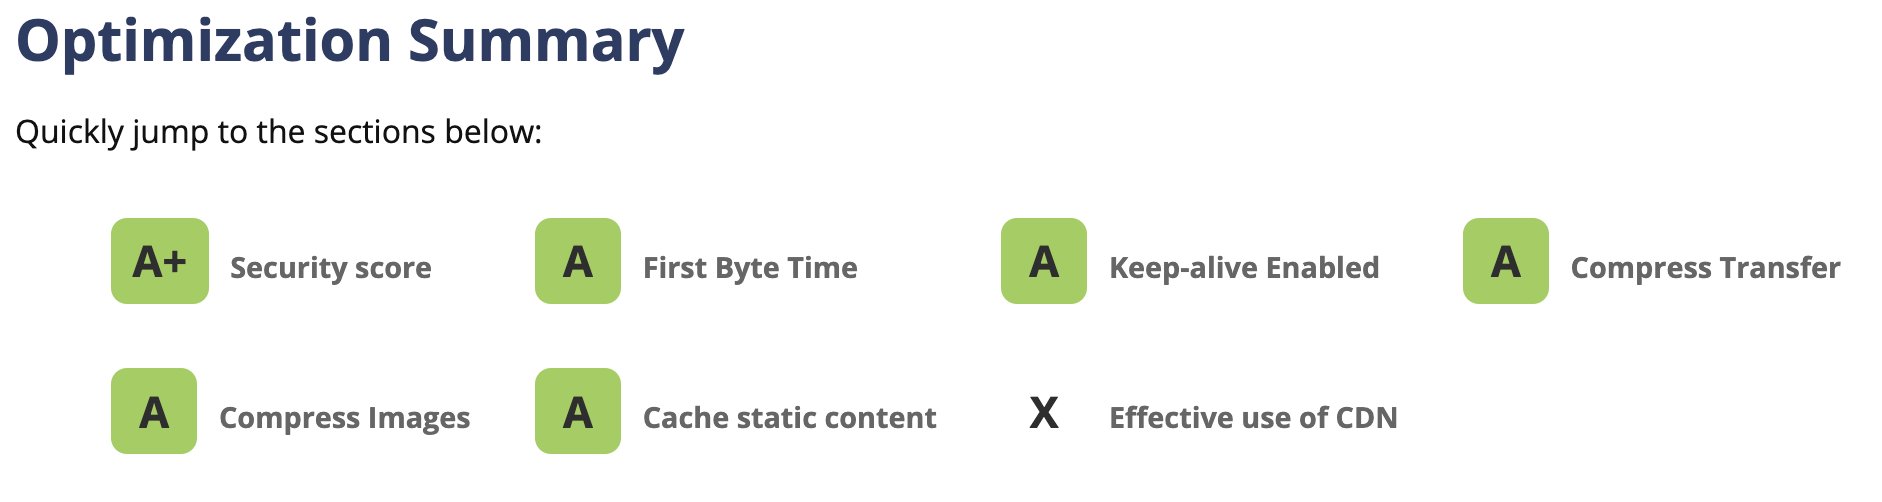
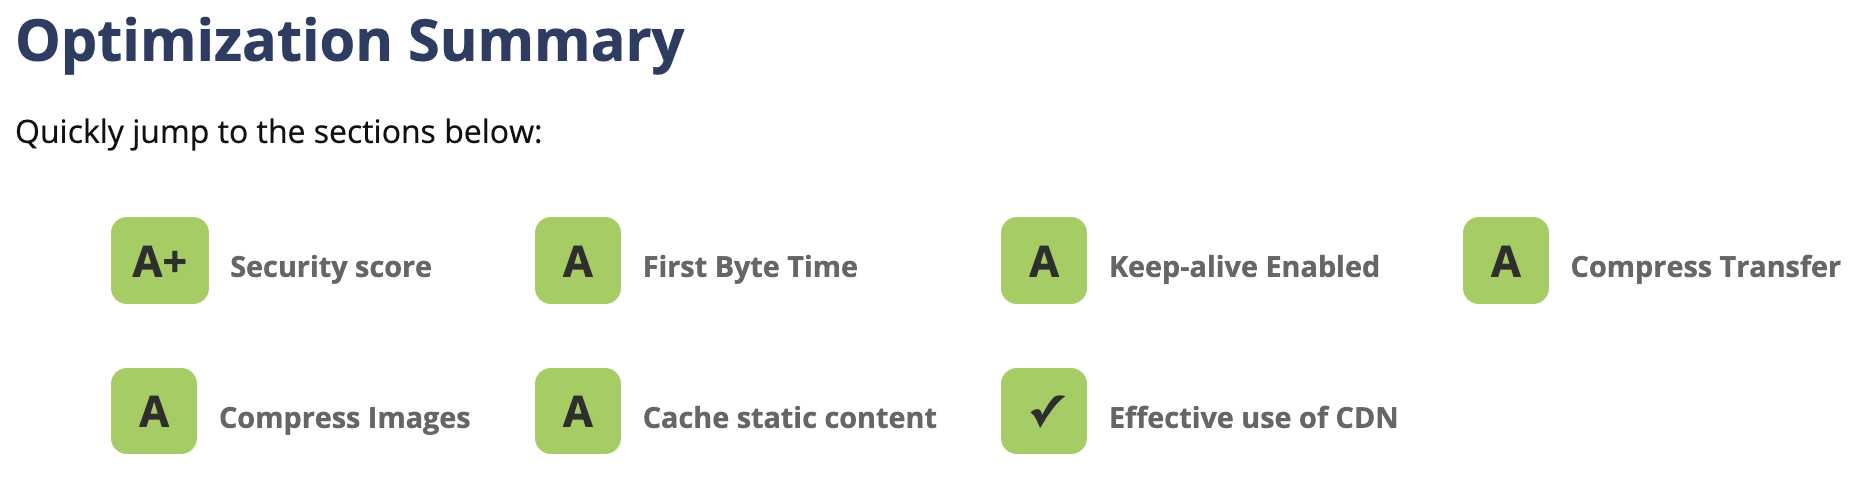
Load assets from CDN

diff --git a/app/javascript/src/components/AppHeader.vue b/app/javascript/src/components/AppHeader.vue
@@ -1,4 +1,5 @@
 <script setup lang="ts">
+import { assetUrl } from '@/utils/metaContent';
 import logoPath from '../../images/logo.svg';
 
 const tabs: {
@@ -15,7 +16,7 @@ const tabs: {
     class="flex items-end justify-between space-x-5 p-5 lg:flex-col lg:items-stretch lg:space-y-36 lg:space-x-0 lg:p-0"
   >
     <img
-      :src="logoPath"
+      :src="assetUrl(logoPath)"
       alt="Logo"
       class="h-20 w-20 rounded bg-gradient-to-br from-slate-200 to-white p-3 lg:h-56 lg:w-56"
       width="150"

diff --git a/app/javascript/src/utils/metaContent.ts b/app/javascript/src/utils/metaContent.ts
@@ -5,3 +5,9 @@ export function metaContent(name: string): string | undefined {
 
   if (element) return element.content;
 }
+
+export function assetUrl(fileName: string): string {
+  const assetHost = metaContent('asset-host') || '';
+
+  return assetHost + fileName;
+}

diff --git a/README.md b/README.md
@@ -86,7 +86,7 @@ https://github.com/rails/rails/pull/41994
 
 ### WebPageTest
 
-[![WebPageTest](docs/web-page-test.png)](https://www.webpagetest.org/result/220530_BiDcQQ_83b754931114d99469b521e72731eb4d/)
+[![WebPageTest](docs/web-page-test.png)](https://www.webpagetest.org/result/220603_AiDcD6_63C/)
 
 ### GTmetrix
 
@@ -119,9 +119,9 @@ rendering chunks...
 ../../public/vite/assets/logo.44ced38d.svg          0.48 KiB
 ../../public/vite/manifest-assets.json              0.22 KiB
 ../../public/vite/manifest.json                     0.20 KiB
-../../public/vite/assets/application.ab5cb427.css   20.16 KiB / gzip: 4.70 KiB
-../../public/vite/assets/application.a2479141.js    143.16 KiB / gzip: 53.83 KiB
-../../public/vite/assets/application.a2479141.js.map 986.78 KiB
+../../public/vite/assets/application.d1fc3c32.css   19.37 KiB / gzip: 4.66 KiB
+../../public/vite/assets/application.b2204b12.js    143.25 KiB / gzip: 53.88 KiB
+../../public/vite/assets/application.b2204b12.js.map 987.04 KiB
 Build with Vite complete: /Users/ledermann/Projects/templatus/public/vite
 ```
 
